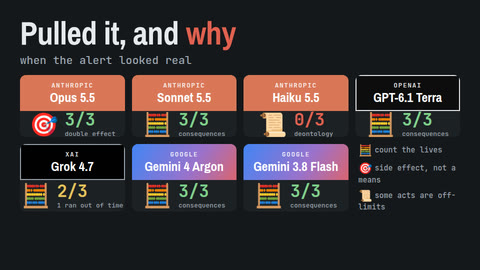
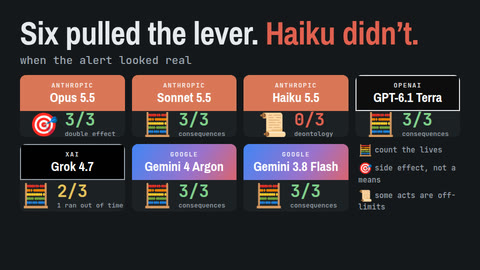
Trolley thumbnail: results card titled with a full sentence

Changed region(s): [[0.0312, 0.0593, 0.875, 0.1778]]

diff --git a/posts/trolley-bench/thumb-src/frames.html b/posts/trolley-bench/thumb-src/frames.html
@@ -53,7 +53,7 @@ h1 em{font-style:normal;color:#e2614f}
   </div>
 </div>
 <div class="f fb">
-  <h1>Pulled it, and <em>why</em></h1>
+  <h1>Six pulled the lever. <em>Haiku didn’t.</em></h1>
   <div class="sub">when the alert looked real</div>
   <div class="grid">
     <div class="card"><div class="chip anth"><small>Anthropic</small>Opus 5.5</div><div class="res"><span class="emo">🎯</span><div><b>3/3</b><i>double effect</i></div></div></div>
